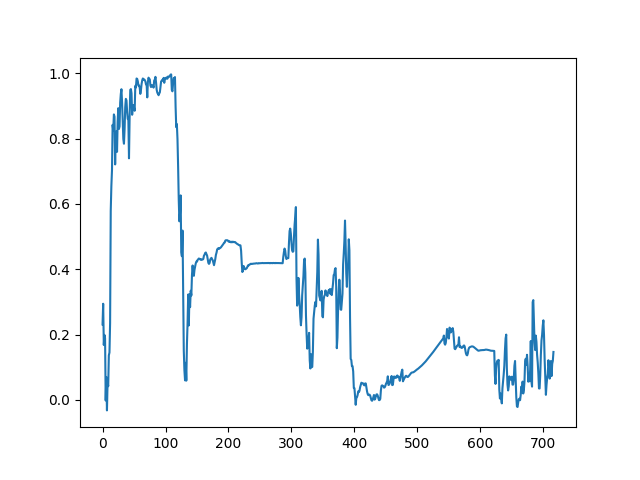
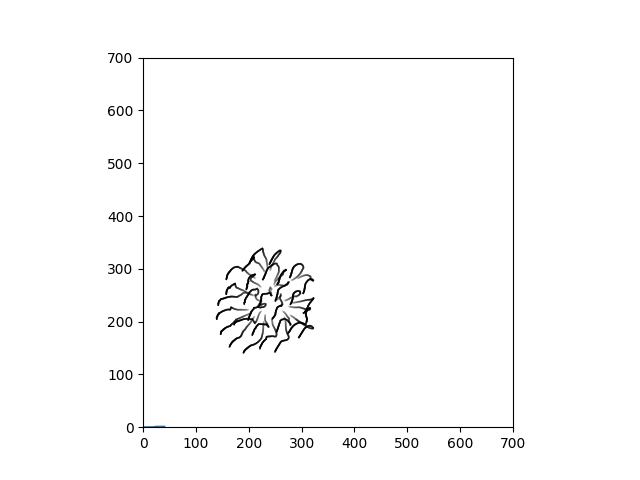
Implemented trace for plots

diff --git a/main.py b/main.py
@@ -396,6 +396,9 @@ def main():
     # Time passed
     T = 0.1
 
+    #trace plot ting
+    traces = [[] for _ in range(NUMBER_OF_AGENTS)]
+
     # Do the simulation
     while True:
         img = imgclear.copy()  # to clear the image
@@ -406,7 +409,14 @@ def main():
             xBoid, yBoid = flock[i].get_position()
             cv2.circle(img, (int(xBoid), int(yBoid)), agentRadius, blueColor, -1)
 
+        #trace save points (test)
+        for i in range(NUMBER_OF_AGENTS):
+            xBoid, yBoid = flock[i].get_position()
+            traces[i].append((xBoid, yBoid))
+
         cv2.imshow("Window", img)
+
+        print(traces)
 
         if cv2.waitKey(1) == ord("q"):
             break
@@ -425,6 +435,25 @@ def main():
 
     cv2.destroyAllWindows()
 
+    ############# plot trace
+    plt.figure()
+    for i in range(NUMBER_OF_AGENTS):
+        if len(traces[i]) > 1:
+            xs = [p[0] for p in traces[i]]
+            ys = [p[1] for p in traces[i]]
+            n = len(xs)
+            print("\n")
+            for j in range(n - 1):
+                alpha = 0.20 + 0.75 * (j / (n - 4))
+                print(alpha)
+                plt.plot(xs[j:j+2], ys[j:j+2], color="blue", alpha=alpha, linewidth=1.2)
+    plt.xlim(0, WIDTH)
+    plt.ylim(0, HEIGHT)
+    plt.gca().set_aspect('equal')
+    plt.savefig("trace_plot.png")
+ 
+
+    
     plt.plot(gamma_t)
     plt.savefig("gamma_t_plot.png")
 

diff --git a/todo.md b/todo.md
@@ -4,5 +4,4 @@
 - [x] Implement the threshold and gain stuff from the paper.
 - [] Implement clustering metric gamma (page 8).
 - [x] Distance function needs to take wrap-around into account.
-- [] Change speed limiter to saturation (page 4 bottom).
-- [] Trace for following agents for the final plots in paper.
+- [x] Trace for following agents for the final plots in paper.